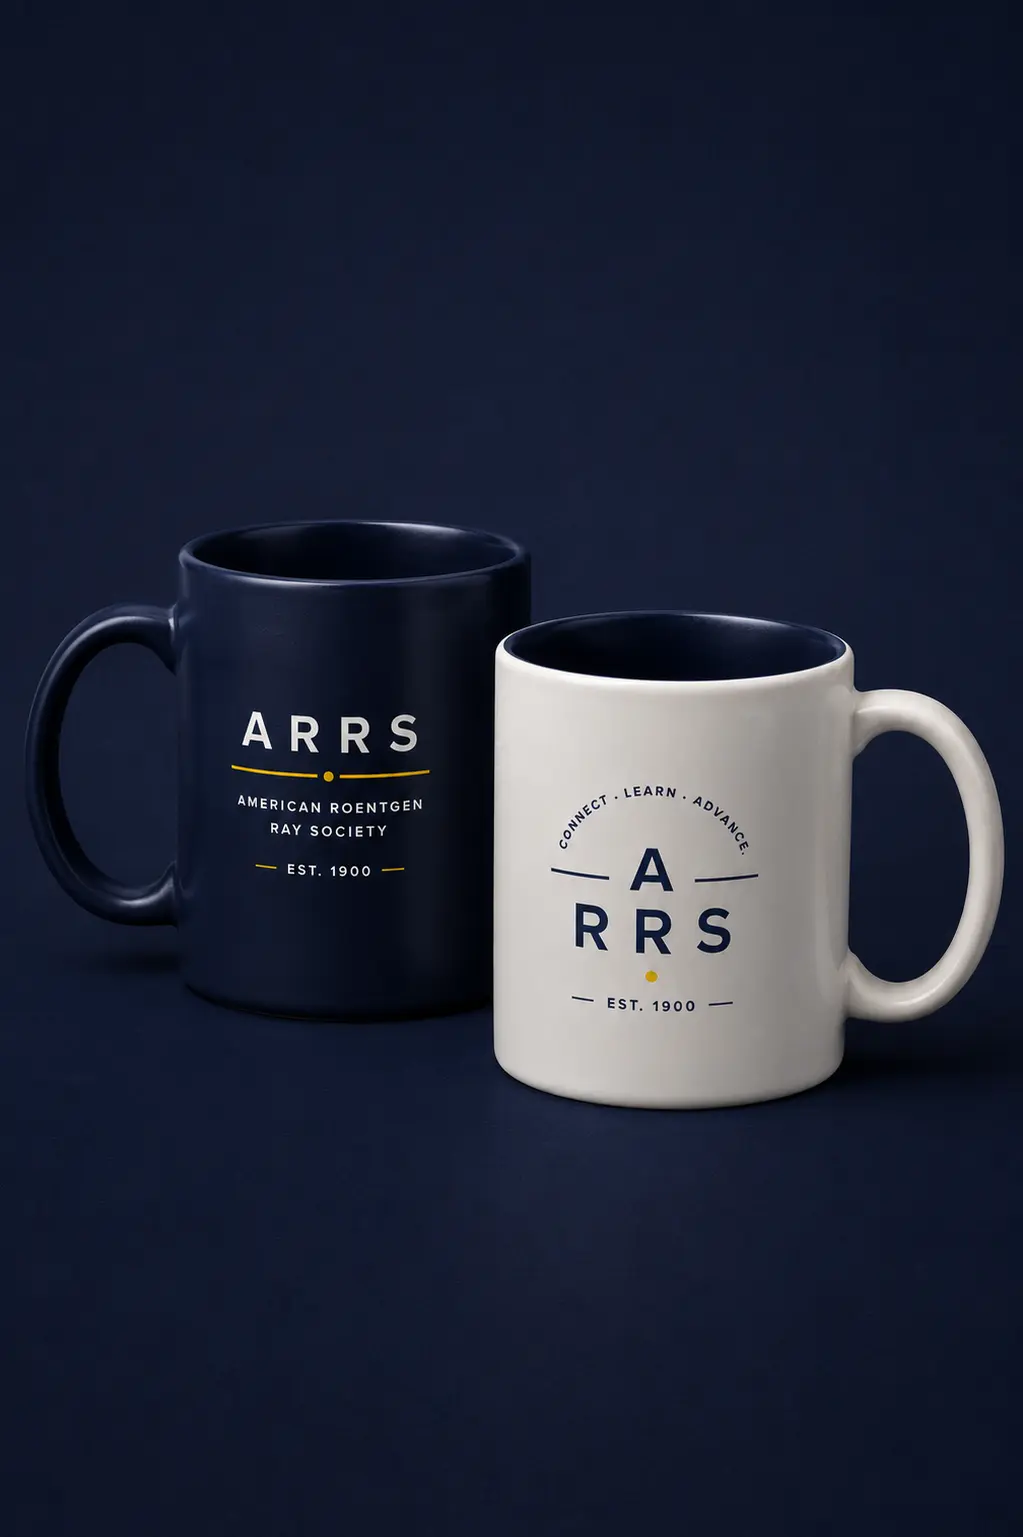
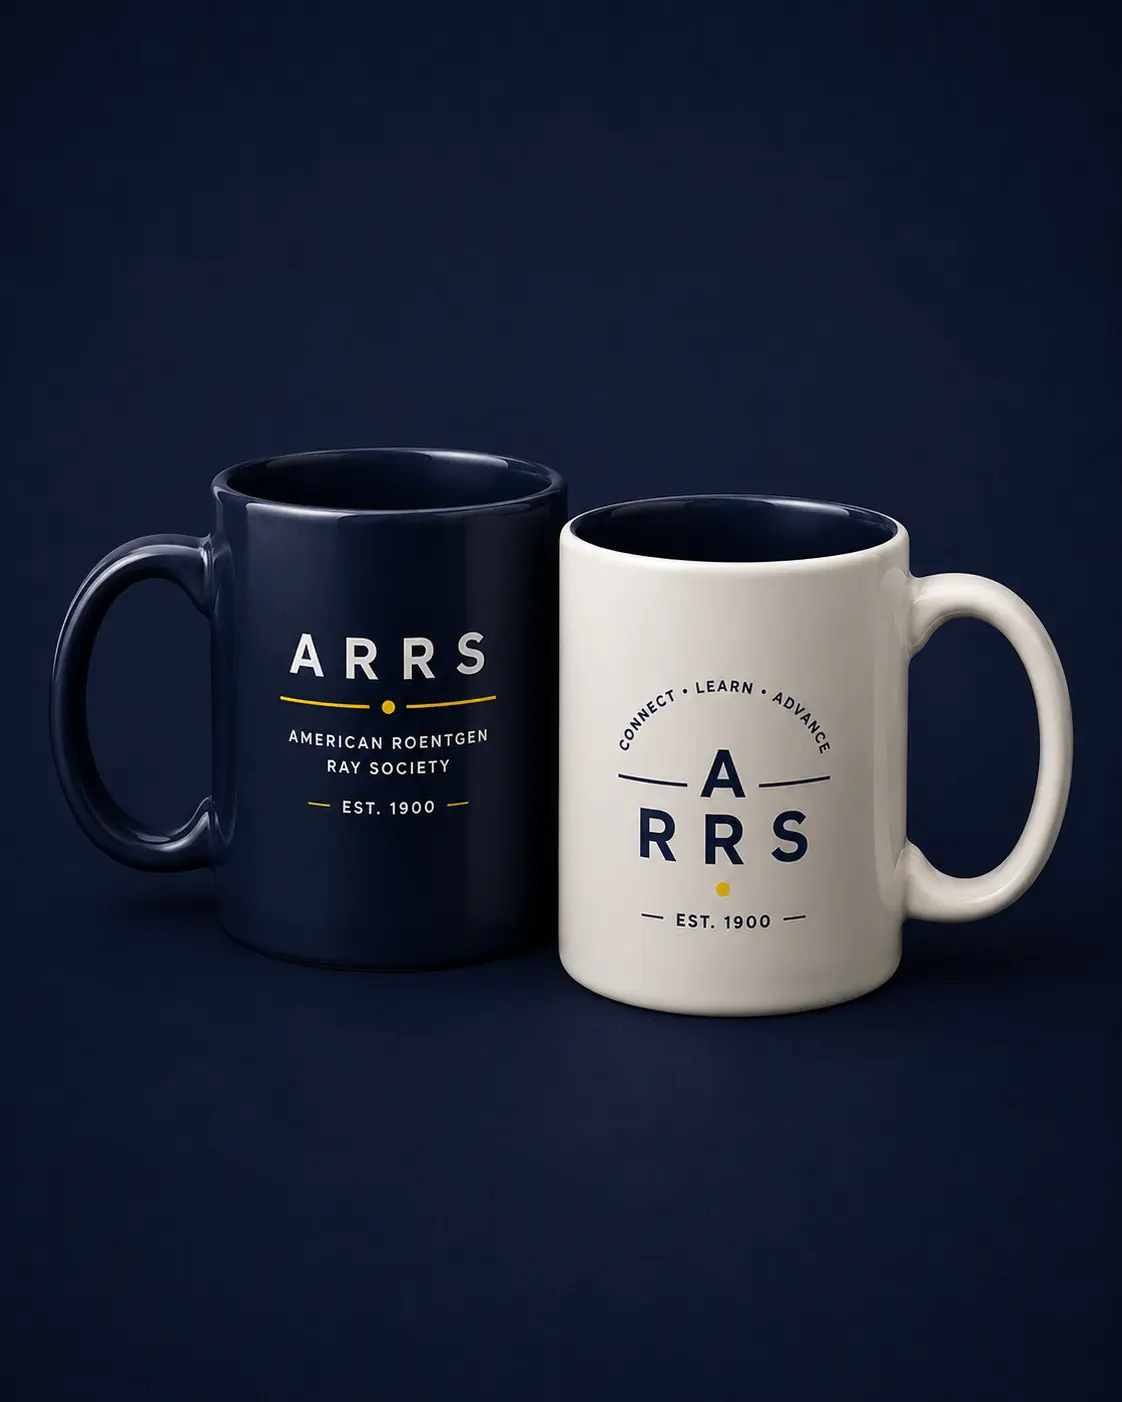
Restore the mug to cover, revert the chip, and make the hover lifts actually ease
mugs.webp is now 1122x1402, so the fit/ground letterbox workaround is gone and
it fills the card like the rest. All four products verified at ratio 0.800.

Chip returns to the dark translucent disc with the arrow itself in brand yellow,
measured 13.2:1 against the disc. The solid yellow disc read as a loud blob on
the artwork.

The hover lift was snapping while the glow beside it eased, because
transition-[...] listed `transform` but Tailwind v4 compiles translate-* to the
independent `translate` property. Both `translate` and `scale` are now named in
the CTA base list, with a comment at the declaration — this is the third defect
in this build from that same mismatch.

Proved by recording real hover frames rather than reading the CSS: 48 frames
easing 0 -> -0.47 -> -1.19 -> -1.61 -> -1.82 -> -1.92 -> -1.99 -> -2.0px, with
the arrow travelling 0 -> 4px in lockstep.

The hero "Watch on demand" button gains the same treatment — it previously
transitioned filter alone — so both primary CTAs behave identically. Duration
raised to 300ms.

Zero overflow, no control under 44x44, CLS 0 at 320/390/640/768/1024/1440.

diff --git a/components/sections/HeroBento.tsx b/components/sections/HeroBento.tsx
@@ -119,10 +119,14 @@ export function HeroBento() {
             >
               <PlayLink
                 href={hero.primaryCta.href}
-                className="cta-primary inline-flex h-12 items-center justify-center gap-2 rounded-xl px-6 text-[0.9375rem] font-medium transition-[filter] duration-150 hover:brightness-[0.96]"
+                className="cta-primary group inline-flex h-12 items-center justify-center gap-2 rounded-xl px-6 text-[0.9375rem] font-medium transition-[filter,translate,scale,box-shadow] duration-300 ease-[var(--ease-hero)] hover:-translate-y-0.5 hover:brightness-[0.96] hover:cta-lift"
               >
                 {hero.primaryCta.label}
-                <ArrowRight aria-hidden="true" className="size-4" strokeWidth={1.5} />
+                <ArrowRight
+                  aria-hidden="true"
+                  strokeWidth={1.5}
+                  className="size-4 transition-[translate] duration-300 ease-[var(--ease-hero)] group-hover:translate-x-1"
+                />
               </PlayLink>
               <RegisterDialog />
             </div>

diff --git a/components/ui/CTA.tsx b/components/ui/CTA.tsx
@@ -1,8 +1,11 @@
 import Link from "next/link";
 import type { AppRoute } from "@/lib/content";
 
+// Tailwind v4 compiles translate-*/scale-* to the INDEPENDENT `translate` and
+// `scale` properties, not the `transform` shorthand. Both must be named here or
+// a hover lift jumps instantly while the shadow beside it eases.
 const base =
-  "inline-flex items-center justify-center gap-2 rounded-xl text-[0.9375rem] font-medium transition-[filter,background-color,border-color,color,transform,box-shadow] duration-200 ease-[var(--ease-hero)]";
+  "inline-flex items-center justify-center gap-2 rounded-xl text-[0.9375rem] font-medium transition-[filter,background-color,border-color,color,transform,translate,scale,box-shadow] duration-300 ease-[var(--ease-hero)]";
 
 const variants = {
   primary: `${base} cta-primary h-12 px-6 hover:brightness-[0.96]`,

diff --git a/components/sections/StoreDeck.tsx b/components/sections/StoreDeck.tsx
@@ -141,7 +141,7 @@ export function StoreDeck() {
                   {isActive ? (
                     <span
                       aria-hidden="true"
-                      className="absolute top-3 right-3 flex size-9 items-center justify-center rounded-full bg-brand text-brand-ink transition-transform duration-200 group-hover:scale-110"
+                      className="absolute top-3 right-3 flex size-9 items-center justify-center rounded-full bg-ink/65 text-brand backdrop-blur-sm transition-[scale,background-color] duration-200 ease-[var(--ease-hero)] group-hover:scale-110 group-hover:bg-ink/85"
                     >
                       <ArrowUpRight className="size-4" strokeWidth={2} />
                     </span>

diff --git a/lib/content.ts b/lib/content.ts
@@ -249,13 +249,7 @@ export const store = {
   products: [
     { id: "hoodie", name: "Hoodie", src: "/store/hoodie-navy.webp" },
     { id: "roentgen-ray-tee", name: "Roentgen Ray tee", src: "/store/roentgen-ray-tee.webp" },
-    {
-      id: "mugs",
-      name: "Mugs",
-      src: "/store/mugs.webp",
-      fit: "contain",
-      ground: "#0C1327",
-    },
+    { id: "mugs", name: "Mugs", src: "/store/mugs.webp" },
     { id: "radres-tee", name: "RADRES tee", src: "/store/radres-tee.webp" },
   ],
 } as const satisfies {

diff --git a/components/sections/StoreSection.tsx b/components/sections/StoreSection.tsx
@@ -34,7 +34,7 @@ export function StoreSection() {
               <ArrowRight
                 aria-hidden="true"
                 strokeWidth={1.5}
-                className="size-4 transition-transform duration-200 ease-[var(--ease-hero)] group-hover:translate-x-1"
+                className="size-4 transition-[translate] duration-300 ease-[var(--ease-hero)] group-hover:translate-x-1"
               />
             </CTA>
           </div>
